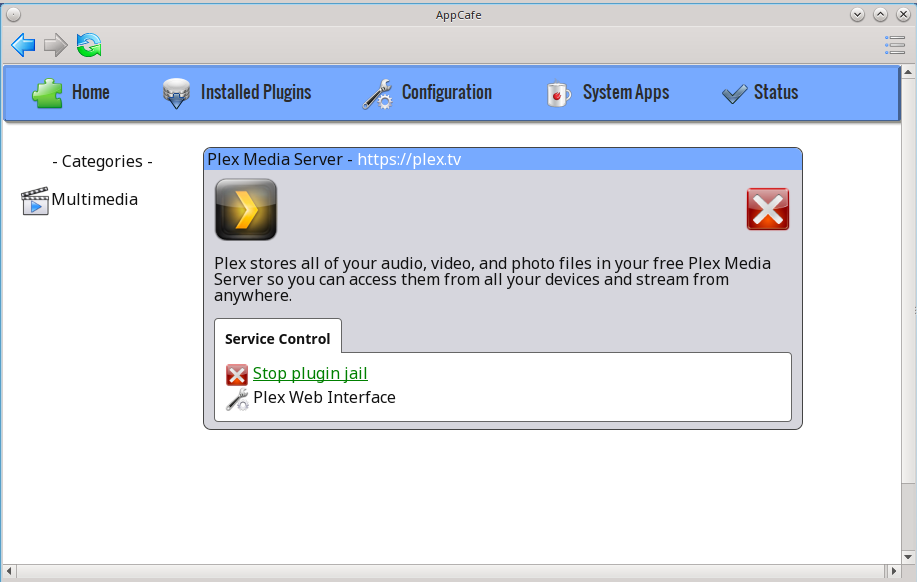
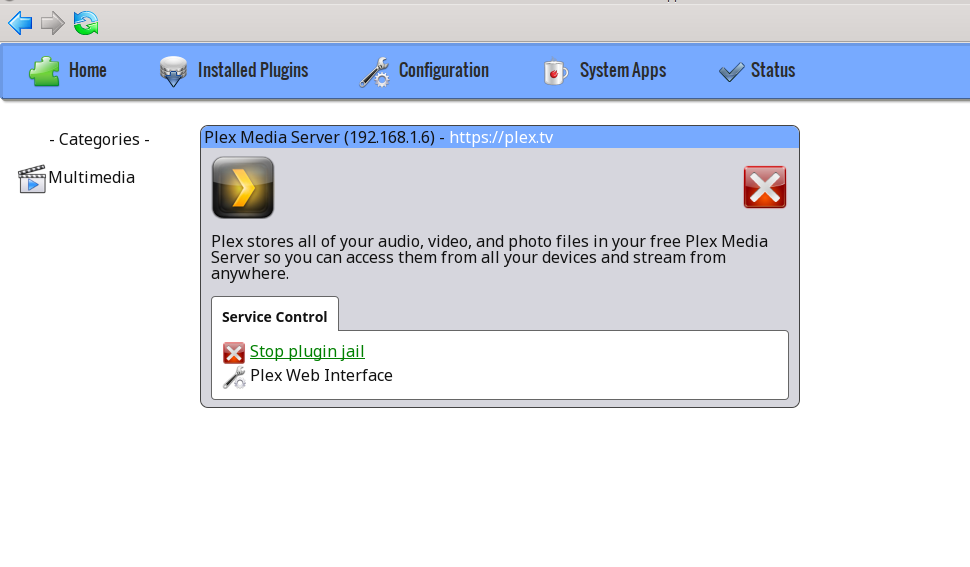
More docs on plugins and iocage.  Translate: YES

Changed region(s): [[0.0, 0.0, 1.0, 1.0]]

diff --git a/src-qt5/docs/update.rst b/src-qt5/docs/update.rst
@@ -205,15 +205,26 @@ Plugins
 
 Beginning with PC-BSD® 10.2, plugins can be used to install a pre-configured, isolated application into its own jail. A `jail <https://en.wikipedia.org/wiki/FreeBSD_jail>`_ provides a very
 light-weight, operating system-level virtualization. A jail is similar to running an independent instance of FreeBSD on the same hardware, without all of the overhead usually associated
-with virtualization. Jails are usually created for running applications or services. For example, you could host your own web or mail server on your desktop system without affecting your
-desktop applications or data. Each jail has its own IP address, running processes, and users. Whatever happens in that jail does not affect your operating system or other jails running on
-the PC-BSD® system.
+with virtualization. Jails are usually created for running applications or services. For example, you could host your own media server on your desktop system without affecting other
+installed applications or your data. Each jail has its own IP address, running processes, and users. Whatever happens in that jail does not affect your operating system or other jails
+running on the PC-BSD® system.
 
 Plugins use `iocage <https://github.com/iocage/iocage>`_ for managing jails using either the AppCafe® GUI or :command:`iocage` command line utility. iocage was specifically
 designed for jail management on systems formatted with the ZFS filesystem. It stores its configuration as a ZFS property rather than using a configuration file. 
 
-To create, delete, and manage plugins, click the "Plugins" tab. The first time you use plugins, the screen shown in Figure 7.1g will prompt you to configure the range of IP addresses on
-your network that you will reserve for plugins.
+To create, delete, and manage plugins within AppCafe®, click the "Plugins" tab. This will change the entries in the top blue menu bar to the following:
+
+* **Home:** used to return to the Plugins home page.
+
+* **Installed Plugins:** lists the available plugins. The "download" and red "x" icons indicate which plugins are already installed.
+
+* **Configuration:** used to configure the range of IP addresses available for use by plugins.
+
+* **System Apps:** used to return to the main AppCafe® page so that you can manage packages and PBIs.
+
+* **Status:** this tab appears if you have installed or uninstalled any software and contains the logs for each action.
+
+The first time you use plugins, the "Configuration" tab shown in Figure 7.1g will prompt you to configure the range of IP addresses on your network that you will reserve for plugins.
 
 **Figure 7.1g: Initial Plugins Configuration**
 
@@ -227,40 +238,57 @@ DHCP server in your network, make a reservation for those addresses so that the 
 In this example, AppCafe® has also detected that the name of the ZFS pool is *tank*. If you have multiple ZFS pools and would like to specify which one is used for plugins, use the
 "Plugin zpool" drop-down menu to select the desired pool.
 
-When finished, click "Save". This will open the screen showing the listing of available plugins. In the example shown in Figure 7.1h, the `Plex Media Server <https://plex.tv/>`_ plugin is
-available for installation.
+When finished, click "Save". This will open the "Installed Plugins" tab, showing the listing of available plugins. In the example shown in Figure 7.1h, the
+`Plex Media Server <https://plex.tv/>`_ plugin is available for installation.
 
 **Figure 7.1h: List of Available Plugins**
 
 .. image:: images/remote7a.png
 
+.. note:: at this time, only the Plex Media Server is available as a plugin. More plugins will be added in future updates to PC-BSD®. If you would like to install other, isolated
+   applications, refer to the section on :ref:`Managing Jails from the CLI`.
+
 Click the plugin's install icon to begin the installation. Installation will take a few minutes as a new jail will be created, the jail will be assigned the next available reserved IP
 address, and the application will be installed into the jail. Once installed, a screen similar to Figure 7.1i will indicate that the plugin is installed.
 
-**Figure 7.1h: Plugin is Installed**
+**Figure 7.1i: Plugin is Installed**
 
 .. image:: images/plugin1.png
 
+The title bar will indicate the name of the application that was installed and the IP address assigned to the jail where the application was installed. To configure the application,
+click the hyperlink for the "Plex Web Interface" configuration icon. This will open the configuration screen shown in Figure 7.1j.
 
+.. note:: depending upon the window manager's default web browser, the configuration link may or may not display properly. For example, the default web browser for the KDE window manager is
+   Konqueror, which does not render the configuration page. To change the default web browser within KDE, click
+   :menuselection:`Kickoff --> System Settings --> Default Applications -->Web Browser --> in the following browser` and use the browse button to select another web browser, such as Firefox.
+
+**Figure 7.1j: Plugin Configuration**
+
+.. image:: images/plugin2.png
+
+Click the "Agree" button to accept the application's license. You can now configure your channels and playlists. If you are new to Plex, refer to the
+`Plex Getting Started Guide <https://support.plex.tv/hc/en-us/categories/200007268-Getting-Started>`_.
 
 .. index:: AppCafe®
 .. _Managing Jails from the CLI:
 
-Managing Plugins from the CLI
-^^^^^^^^^^^^^^^^^^^^^^^^^^^^^
+Managing Jails from the CLI
+^^^^^^^^^^^^^^^^^^^^^^^^^^^
 
-The :command:`iocage` command line utility is a Bourne shell script. This script can be manually run from the command line on a PC-BSD® server or by users who prefer using
+The :command:`iocage` command line utility is a Bourne shell script. This script can be manually run from the command line on a PC-BSD® server or by users who prefer to manage jails using
 the command line. Advanced users can also refer to the command line version in their own jail management scripts.
 
 If you type :command:`iocage` at the command line, you will receive a summary of its usage::
 
  usage:
   iocage activate ZPOOL
-  iocage fetch [release=RELEASE | ftphost=ftp.hostname.org | ftpdir=/dir/]
+  iocage fetch [release=RELEASE | ftphost=ftp.hostname.org | ftpdir=/dir/ |
+                ftpfiles="base.txz doc.txz lib32.txz src.txz"]
   iocage init-host IP zpool
   iocage create [-b|-c|-e] [release=RELEASE] [pkglist=file] [property=value]
-  iocage clone UUID|TAG@snapshot [property=value]
+  iocage clone UUID|TAG [UUID|TAG@snapshot] [property=value]
   iocage destroy [-f] UUID|TAG|ALL
+  iocage reset UUID|TAG|ALL
   iocage list [-t|-r]
   iocage start UUID|TAG
   iocage stop UUID|TAG
@@ -268,25 +296,24 @@ If you type :command:`iocage` at the command line, you will receive a summary of
   iocage rcboot
   iocage rcshutdown
   iocage console UUID|TAG
-  iocage exec [-u username | -U username] UUID|TAG command [arg ...]
+  iocage exec [-u username | -U username] UUID|TAG|ALL command [arg ...]
   iocage chroot UUID|TAG [command]
   iocage df
   iocage show property
   iocage get property|all UUID|TAG
   iocage set property=value UUID|TAG
   iocage cap UUID|TAG
-  iocage limits UUID|TAG
+  iocage limits [UUID|TAG]
   iocage uncap UUID|TAG
   iocage inuse [UUID|TAG]
-  iocage top UUID|TAG
-  iocage snapshot UUID|TAG@snapshotname
+  iocage snapshot UUID|TAG [UUID|TAG@snapshotname]
   iocage snaplist UUID|TAG
   iocage snapremove UUID|TAG@snapshotname|ALL
   iocage rollback UUID|TAG@snapshotname
   iocage promote UUID|TAG
   iocage runtime UUID|TAG
   iocage update UUID|TAG
-  iocage upgrade UUID|TAG
+  iocage upgrade UUID|TAG [release=RELEASE]
   iocage record start|stop UUID|TAG
   iocage package UUID|TAG
   iocage export UUID|TAG
@@ -294,13 +321,64 @@ If you type :command:`iocage` at the command line, you will receive a summary of
   iocage defaults
   iocage version | --version
   iocage help
- 
+
   Hint:  you can use shortened UUIDs or TAGs interchangeably!
- 
+
   e.g. for  adae47cb-01a8-11e4-aa78-3c970ea3222f
        use  adae47cb or just adae
 
+Before creating a jail for the first time, specify the version of FreeBSD to install. To see which versions are available::
+
+ iocage fetch
+ Supported releases are: 
+   10.1-RELEASE
+    9.3-RELEASE
+ Please select a release [10.2-RELEASE]: 10.1-RELEASE
+  INFO: Creating tank/iocage
+  INFO: Creating tank/iocage/jails
+  INFO: Creating tank/iocage/.defaults
+  INFO: Creating tank/iocage/download
+  INFO: Creating tank/iocage/releases
+ base.txz                                      100% of   63 MB 1908 kBps 00m34s
+ doc.txz                                       100% of 1395 kB 1301 kBps 00m01s
+ lib32.txz                                     100% of   15 MB 1762 kBps 00m10s
+ src.txz                                       100% of  109 MB 2116 kBps 00m53s
+ Extracting: base.txz
+ Extracting: doc.txz
+ Extracting: lib32.txz
+ Extracting: src.txz
+ * Updating base jail..
+ Looking up fbsd-update.pcbsd.org mirrors... none found.
+ Fetching public key from fbsd-update.pcbsd.org... done.
+ Fetching metadata signature for 10.1-RELEASE from fbsd-update.pcbsd.org... done.
+ Fetching metadata index... done.
+ Fetching 2 metadata files... done.
+ Inspecting system... done.
+ Preparing to download files... done.
+ Fetching 672 patches.....10....20....30....40....50....60....70....80....90....100....110....120....130....140....150....160....170....180....190....200....210....220....230....240....250....260....270....280....290....300....310....320....330....340....350....360....370....380....390....400....410....420....430....440....450....460....470....480....490....500....510....520....530....540....550....560....570....580....590....600....610....620....630....640....650....660....670. done.
+ Applying patches... done.
+ Fetching 988 files... 
+ <snip output>
+ Creating basejail ZFS datasets... please wait.
+
+Note that the version running on the host will be displayed between the square brackets, but that version may not necessarily be available as a jail template. In this example, the host is
+running PC-BSD® 10.2, FreeBSD 10.1 and 9.3 are available as jail templates, and the user has specified to use the 10.1-RELEASE template. Once the template has been installed, you can create
+a jail. In this example, the jail's hostname, network interface, and IP address are specified::
+
+ iocage create tag=jail1 ip4_addr="em0|192.168.1.7/24"
  
+You can then start the jail and check its status::
+
+ iocage start jail1
+ iocage list
+ JID   UUID                                  BOOT  STATE  TAG
+ 1     518ec44d-404c-11e5-91c4-0800277f9a55  off   up     jail1
+
+To access the jail::
+
+ iocage console jail1
+ 
+Once inside the jail, you can manage it just like any other FreeBSD system and install software using :command:`pkg`.
 
 .. index:: pkg
 .. _Using the CLI pkg Utilities:
